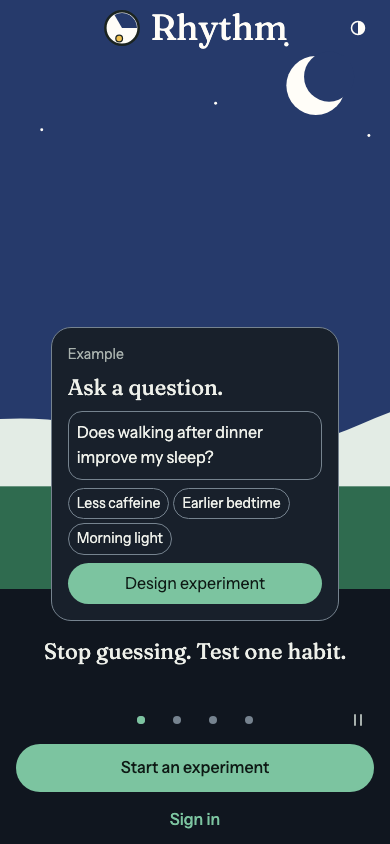
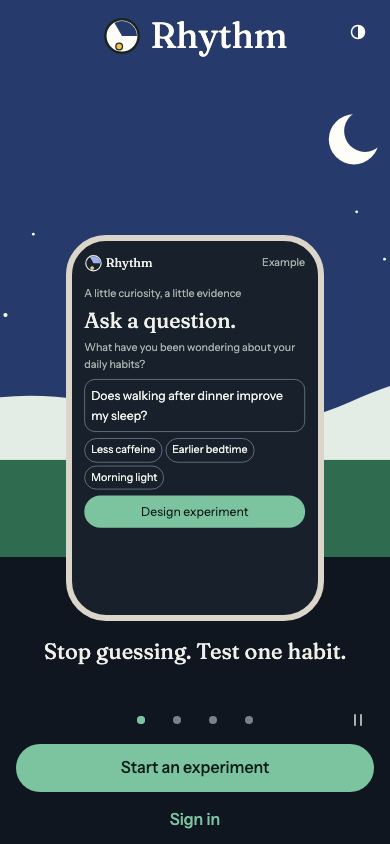
feat(mobile): frame the landing's picture of the app like a real phone
A larger phone over the edge of the sky, with its screens drawn at one width and
scaled. The sun, moon and stars stay clear of the logo.

diff --git a/apps/mobile/src/landing.tsx b/apps/mobile/src/landing.tsx
@@ -11,13 +11,18 @@ import { themedStyles, useColors } from './theme-core';
 
 /** Illustrations stay in the light palette in both modes, like the web's landing story. */
 const ART = themeColors('light');
-const STARS = [[42, 38, 1.5], [96, 88, 1], [150, 26, 1.5], [214, 70, 1], [262, 30, 1.5], [318, 92, 1], [362, 44, 1.5], [24, 120, 1], [342, 150, 1]] as const;
+/** Kept out of the top band, so the logo sits on clear sky. */
+const STARS = [[48, 112, 1.5], [84, 168, 1], [64, 226, 1.5], [24, 150, 1], [336, 186, 1], [352, 236, 1.5], [316, 152, 1], [372, 132, 1]] as const;
+/** The screens are drawn at this width, then scaled to the phone, so they look like a real screenshot. */
+const SCREEN_WIDTH = 320;
+const PHONE_RATIO = 1.5;
+const FRAME = SPACING.xs + 2;
 
 type Sky = 'night' | 'morning' | 'noon' | 'evening';
 const SUNS: Record<Exclude<Sky, 'night'>, { cx: number; cy: number; warmth: number }> = {
-  morning: { cx: 110, cy: 84, warmth: 0.45 },
-  noon: { cx: 200, cy: 44, warmth: 0.08 },
-  evening: { cx: 286, cy: 92, warmth: 0.7 },
+  morning: { cx: 86, cy: 104, warmth: 0.45 },
+  noon: { cx: 314, cy: 100, warmth: 0.08 },
+  evening: { cx: 314, cy: 112, warmth: 0.7 },
 };
 
 /** The web landing's sky and hills, at four times of day. */
@@ -28,7 +33,7 @@ function Scene({ sky }: { sky: Sky }) {
     {sun && <Rect width={400} height={400} fill={ART.sun} opacity={sun.warmth} />}
     {sun && <Circle cx={sun.cx} cy={sun.cy} r={26} fill={ART.sun} />}
     {sky === 'night' && STARS.map(([cx, cy, r]) => <Circle key={`${cx}-${cy}`} cx={cx} cy={cy} r={r} fill={ART.paper} />)}
-    {sky === 'night' && <><Circle cx={282} cy={58} r={20} fill={ART.paper} /><Circle cx={291} cy={52} r={17} fill={ART.night} /></>}
+    {sky === 'night' && <><Circle cx={314} cy={100} r={18} fill={ART.paper} /><Circle cx={322} cy={94} r={15} fill={ART.night} /></>}
     <Path d="M0 300 Q75 270 155 296 T312 288 T400 282 V400 H0 Z" fill={ART['moss-tint']} />
     <Rect y={330} width={400} height={70} fill={ART.moss} />
   </Svg>;
@@ -43,7 +48,9 @@ function Mini({ children, tone = 'muted', size = tone === 'muted' ? 'caption' : 
 
 function AskScreen() { const local = useLocal();
   return <>
-    <Mini tone="ink" size="title" display>Ask a question.</Mini>
+    <Mini>A little curiosity, a little evidence</Mini>
+    <Mini tone="ink" size="headline" display>Ask a question.</Mini>
+    <Mini>What have you been wondering about your daily habits?</Mini>
     <View style={local.field}><Mini tone="ink">Does walking after dinner improve my sleep?</Mini></View>
     <View style={local.chips}>{['Less caffeine', 'Earlier bedtime', 'Morning light'].map(chip => <View key={chip} style={local.chip}><Mini tone="ink" size="caption">{chip}</Mini></View>)}</View>
     <View style={local.button}><Mini tone="on-accent">Design experiment</Mini></View>
@@ -52,26 +59,31 @@ function AskScreen() { const local = useLocal();
 function PredictionScreen() { const local = useLocal();
   return <>
     <Mini>Written down before day 1</Mini>
-    <Mini tone="ink" size="title" display>Morning energy</Mini>
+    <Mini tone="ink" size="headline" display>Morning energy</Mini>
     <Mini tone="accent" size="headline" display>+8–15%</Mini>
     <View style={local.track}><View style={local.range} /></View>
     <Mini>A range, not a promise.</Mini>
+    <Mini tone="ink">Your small change</Mini>
+    <Mini>A 20-minute walk within an hour of dinner.</Mini>
     <View style={local.note}><Mini tone="ink">3 normal days, then 7 test days</Mini></View>
   </>;
 }
 function CheckInScreen() { const local = useLocal();
   return <>
-    <Mini tone="ink" size="title" display>Day 4 of 10</Mini>
+    <Mini tone="ink" size="headline" display>Day 4 of 10</Mini>
     <View style={local.days}>{Array.from({ length: 10 }, (_, day) => <View key={day} style={[local.day, day < 4 && local.dayDone]} />)}</View>
     <Mini tone="ink">How did you sleep?</Mini>
     <View style={local.scale}>{[1, 2, 3, 4, 5].map(step => <View key={step} style={[local.step, step === 4 && local.stepOn]}><Mini tone={step === 4 ? 'on-accent' : 'ink'} size="caption" center>{step}</Mini></View>)}</View>
+    <Mini tone="ink">How is your energy?</Mini>
+    <View style={local.scale}>{[1, 2, 3, 4, 5].map(step => <View key={step} style={[local.step, step === 3 && local.stepOn]}><Mini tone={step === 3 ? 'on-accent' : 'ink'} size="caption" center>{step}</Mini></View>)}</View>
     <Mini tone="ink">Did you make the change?</Mini>
     <View style={local.chips}><View style={[local.chip, local.stepOn]}><Mini tone="on-accent" size="caption">Yes</Mini></View><View style={local.chip}><Mini tone="ink" size="caption">Not today</Mini></View></View>
+    <View style={local.button}><Mini tone="on-accent">Save check-in</Mini></View>
   </>;
 }
 function ReportScreen() { const local = useLocal();
   return <>
-    <Mini tone="ink" size="title" display>Lab Report</Mini>
+    <Mini tone="ink" size="headline" display>Lab Report</Mini>
     <Mini>Predicted</Mini>
     <View style={local.track}><View style={local.range} /></View>
     <Mini tone="ink">+8–15%</Mini>
@@ -136,7 +148,12 @@ export function Landing({ onStart, onSignIn }: { onStart: () => void; onSignIn: 
   const insets = useSafeAreaInsets();
   // The sky is the same in both themes, so what sits on it is chosen by the sky, not the theme.
   const onSky = SLIDES[index].sky === 'night' ? ART.paper : ART.ink;
-  const belowLogo = insets.top + LAYOUT.headerHeight + SPACING.md;
+  const belowLogo = insets.top + LAYOUT.headerHeight + SPACING.lg;
+  const [heroHeight, setHeroHeight] = useState(window.height * 0.68);
+  const room = Math.max(heroHeight - belowLogo, SPACING.section * 3);
+  const phoneWidth = Math.min(width * 0.66, LAYOUT.buttonMaxWidth, room / PHONE_RATIO);
+  const phoneHeight = Math.min(phoneWidth * PHONE_RATIO, room);
+  const scale = (phoneWidth - FRAME * 2) / SCREEN_WIDTH;
 
   const moveTo = (page: number, animated: boolean) => {
     moving.current = page;
@@ -166,20 +183,28 @@ export function Landing({ onStart, onSignIn }: { onStart: () => void; onSignIn: 
         const copy = page === SLIDES.length;
         const current = page === index;
         return <View key={page} style={[local.slide, { width }]} accessibilityElementsHidden={!current} importantForAccessibility={current ? 'auto' : 'no-hide-descendants'}>
-          <View style={[local.hero, { paddingTop: belowLogo }]} accessibilityElementsHidden importantForAccessibility="no-hide-descendants">
-            <View style={local.art}><Scene sky={sky} /></View>
-            <View style={local.phone}><Mini>Example</Mini><Screen /></View>
+          <View style={local.hero} onLayout={page === 0 ? ({ nativeEvent }: LayoutChangeEvent) => setHeroHeight(nativeEvent.layout.height) : undefined} accessibilityElementsHidden importantForAccessibility="no-hide-descendants">
+            <View testID="landing-sky" style={local.art}><Scene sky={sky} /></View>
+            <View testID="landing-phone" style={[local.phone, { width: phoneWidth, height: phoneHeight, borderWidth: FRAME, borderRadius: RADII.card * 2 }]}>
+              <View style={[local.screen, { width: SCREEN_WIDTH, height: (phoneHeight - FRAME * 2) / scale, transform: [{ scale }] }]}>
+                <View style={local.bar}>
+                  <View style={local.barBrand}><Mark size={SPACING.lg} /><Mini tone="ink" display>Rhythm</Mini></View>
+                  <Mini>Example</Mini>
+                </View>
+                <Screen />
+              </View>
+            </View>
           </View>
           <Copy ref={page === 0 ? heading : undefined} accessibilityRole={copy ? undefined : 'header'} style={local.line}>{line}</Copy>
         </View>;
       })}
     </ScrollView>
-    <View pointerEvents="box-none" style={[local.top, { paddingTop: insets.top + SPACING.sm }]}>
+    <View pointerEvents="box-none" style={[local.top, { paddingTop: insets.top + SPACING.md }]}>
       <View testID="landing-logo" accessible accessibilityRole="image" accessibilityLabel="Rhythm" style={local.logo}>
         <Mark size={SPACING.xl + SPACING.sm} palette={ART} />
         <Copy style={[local.word, { color: onSky }]}>Rhythm</Copy>
       </View>
-      <View style={[local.theme, { top: insets.top + SPACING.xs }]}><ThemeCycleButton color={onSky} /></View>
+      <View style={[local.theme, { top: insets.top + SPACING.sm }]}><ThemeCycleButton color={onSky} /></View>
     </View>
     <View style={local.controls}>
       <View style={local.dots}>{SLIDES.map(({ line }, page) => <Dot key={line} number={page + 1} on={page === index} onPress={() => moveTo(page, !reduce)} />)}</View>
@@ -201,9 +226,12 @@ const useLocal = themedStyles(COLORS => StyleSheet.create({
   logo: { flexDirection: 'row', alignItems: 'center', justifyContent: 'center', gap: SPACING.sm },
   word: { fontFamily: FONT_FAMILIES.display, ...NATIVE_TYPOGRAPHY['display-sm'] },
   theme: { position: 'absolute', right: LAYOUT.gutter.min - SPACING.sm },
-  art: { position: 'absolute', left: 0, right: 0, top: 0, bottom: SPACING.xl },
-  phone: { width: '74%', maxWidth: LAYOUT.buttonMaxWidth, maxHeight: '100%', gap: SPACING.sm, padding: SPACING.md, overflow: 'hidden', backgroundColor: COLORS.paper,
-    borderRadius: RADII.card, borderWidth: LAYOUT.focusWidth / 2, borderColor: COLORS.control },
+  art: { position: 'absolute', left: 0, right: 0, top: 0, bottom: SPACING.section },
+  // The frame stays pale in both themes, so the phone stands out from the sky and the dark page.
+  phone: { overflow: 'hidden', backgroundColor: COLORS.paper, borderColor: ART.line },
+  screen: { transformOrigin: 'top left', gap: SPACING.sm, padding: SPACING.md },
+  bar: { flexDirection: 'row', alignItems: 'center', justifyContent: 'space-between', marginBottom: SPACING.sm },
+  barBrand: { flexDirection: 'row', alignItems: 'center', gap: SPACING.xs },
   line: { fontFamily: FONT_FAMILIES.display, ...NATIVE_TYPOGRAPHY.title, color: COLORS.ink, textAlign: 'center', paddingHorizontal: LAYOUT.gutter.min, paddingTop: SPACING.md, minHeight: NATIVE_TYPOGRAPHY.title.lineHeight * 2 + SPACING.md },
   field: { padding: SPACING.sm, borderRadius: RADII.control, borderWidth: LAYOUT.focusWidth / 2, borderColor: COLORS.control },
   chips: { flexDirection: 'row', flexWrap: 'wrap', gap: SPACING.xs },

diff --git a/apps/mobile/__tests__/landing.test.tsx b/apps/mobile/__tests__/landing.test.tsx
@@ -167,12 +167,12 @@ test('signing out goes to the form rather than the landing', async () => {
 test('the picture of the app is a real phone frame, labelled as an example, that overlaps the edge of the sky', async () => {
   render(<MobileApp />);
   await screen.findByRole('header', { name: FIRST });
-  const frame = StyleSheet.flatten(screen.getAllByTestId('landing-phone')[0].props.style) as { width: number; height: number; borderWidth: number; borderRadius: number };
+  const frame = StyleSheet.flatten(screen.getAllByTestId('landing-phone', { includeHiddenElements: true })[0].props.style) as { width: number; height: number; borderWidth: number; borderRadius: number };
   expect(frame.borderWidth).toBeGreaterThanOrEqual(SPACING.xs);
   expect(frame.borderRadius).toBeGreaterThanOrEqual(RADII.card);
   expect(frame.height / frame.width).toBeGreaterThan(1.4);
   expect(frame.width).toBeLessThanOrEqual(LAYOUT.buttonMaxWidth);
-  const sky = StyleSheet.flatten(screen.getAllByTestId('landing-sky')[0].props.style) as { bottom: number };
+  const sky = StyleSheet.flatten(screen.getAllByTestId('landing-sky', { includeHiddenElements: true })[0].props.style) as { bottom: number };
   expect(sky.bottom).toBeGreaterThanOrEqual(SPACING.section);
-  expect(screen.getAllByText('Example').length).toBeGreaterThan(0);
+  expect(screen.getAllByText('Example', { includeHiddenElements: true }).length).toBeGreaterThan(0);
 });

diff --git a/frontend/tests/capture/nav-screens.spec.ts b/frontend/tests/capture/nav-screens.spec.ts
@@ -83,6 +83,8 @@ for (const scheme of ["light", "dark"] as const) {
     const menu = async (name: string) => { await button(/^Account menu/).click(); await button(name).click(); };
 
     await shot("landing", async () => { await page.goto(base!); await page.getByRole("heading", { name: "Stop guessing. Test one habit." }).first().waitFor(); });
+    for (const slide of [2, 3, 4]) await shot(`landing-slide-${slide}`, () => button(`Go to slide ${slide} of 4`).click());
+    await button("Go to slide 1 of 4").click();
     await shot("sign-in", async () => { await button("Sign in").click(); await page.getByLabel("Email").waitFor(); });
     await page.getByLabel("Email").fill("learner@example.invalid");
     await page.getByLabel("Password", { exact: true }).fill("fake-test-password");

diff --git a/.claude-logs/2026-11-04_11-52-59_f678fe6b-5c7e-4001-9874-394f8e2fce61.md b/.claude-logs/2026-11-04_11-52-59_f678fe6b-5c7e-4001-9874-394f8e2fce61.md
@@ -5,23 +5,23 @@ author: Md Nazmul Ahsan
 github_user: mnahsanofficial
 git_email: mnahsanofficial@gmail.com
 project: Health
-session_status: complete
-last_entry_type: assistant
-total_exchanges: 3
-generated_at: 2026-11-04T12:44:33.909530
+session_status: awaiting_response
+last_entry_type: user
+total_exchanges: 4
+generated_at: 2026-11-04T12:51:45.760040
 first_prompt_time: 2026-11-04T05:49:20.675Z
-last_prompt_time: 2026-11-04T06:15:48.116Z
-session_duration_minutes: 26.5
-avg_time_between_prompts_minutes: 13.2
-total_prompt_chars: 5850
-total_prompt_words: 890
-avg_prompt_length_chars: 1950.0
-avg_prompt_length_words: 296.7
+last_prompt_time: 2026-11-04T06:49:17.229Z
+session_duration_minutes: 59.9
+avg_time_between_prompts_minutes: 20.0
+total_prompt_chars: 6256
+total_prompt_words: 911
+avg_prompt_length_chars: 1564.0
+avg_prompt_length_words: 227.8
 longest_prompt_words: 869
 shortest_prompt_words: 2
-total_response_chars: 4910
-avg_response_length_chars: 1636.7
-response_to_prompt_ratio: 0.84
+total_response_chars: 4920
+avg_response_length_chars: 1640.0
+response_to_prompt_ratio: 0.79
 prompts_with_code_blocks: 0
 prompts_with_file_paths: 0
 prompts_with_urls: 0
@@ -252,8 +252,27 @@ likely_pasted: False
 
 
 [CLAUDE_LOG_ENTRY type=RESPONSE num=3 session=f678fe6b-5c7e-4001-9874-394f8e2fce61]
-timestamp: 2026-11-04T06:43:53.356Z
-time: 2026-11-04 06:43
-chars: 341
+timestamp: 2026-11-04T06:44:53.003Z
+time: 2026-11-04 06:44
+chars: 351
 
-I can see the difference. Strava's picture of the app is a real phone frame that's bigger and sits over the edge of the hero, the sky stays clean, and the logo has room. Ours is a small card in the same colours as the sky, with stars and the moon crowding the logo. I'll write the test for that first, then rebuild the hero in our own style.
+The hero is rebuilt and its tests pass, but I haven't seen it rendered yet. The browser suite is still using the port the screenshot run needs, so once it finishes I'll capture all four slides in light and dark and check them against your Strava reference. Your running Expo should already show the new version on your phone if you want an early look.
+
+
+[CLAUDE_LOG_ENTRY type=PROMPT num=4 session=f678fe6b-5c7e-4001-9874-394f8e2fce61]
+timestamp: 2026-11-04T06:49:17.229Z
+time: 2026-11-04 06:49
+chars: 406
+words: 21
+has_code_block: False
+has_file_paths: False
+has_urls: False
+likely_pasted: False
+
+<task-notification>
+<task-id>b8xxynolp</task-id>
+<tool-use-id>toolu_018bZyom7A2GF5mNk86V3bUX</tool-use-id>
+<output-file>/private/tmp/claude-501/-Users-nazmulahsan-Health/f678fe6b-5c7e-4001-9874-394f8e2fce61/tasks/b8xxynolp.output</output-file>
+<status>completed</status>
+<summary>Background command "Run the full browser suite and both native exports" completed (exit code 0)</summary>
+</task-notification>
